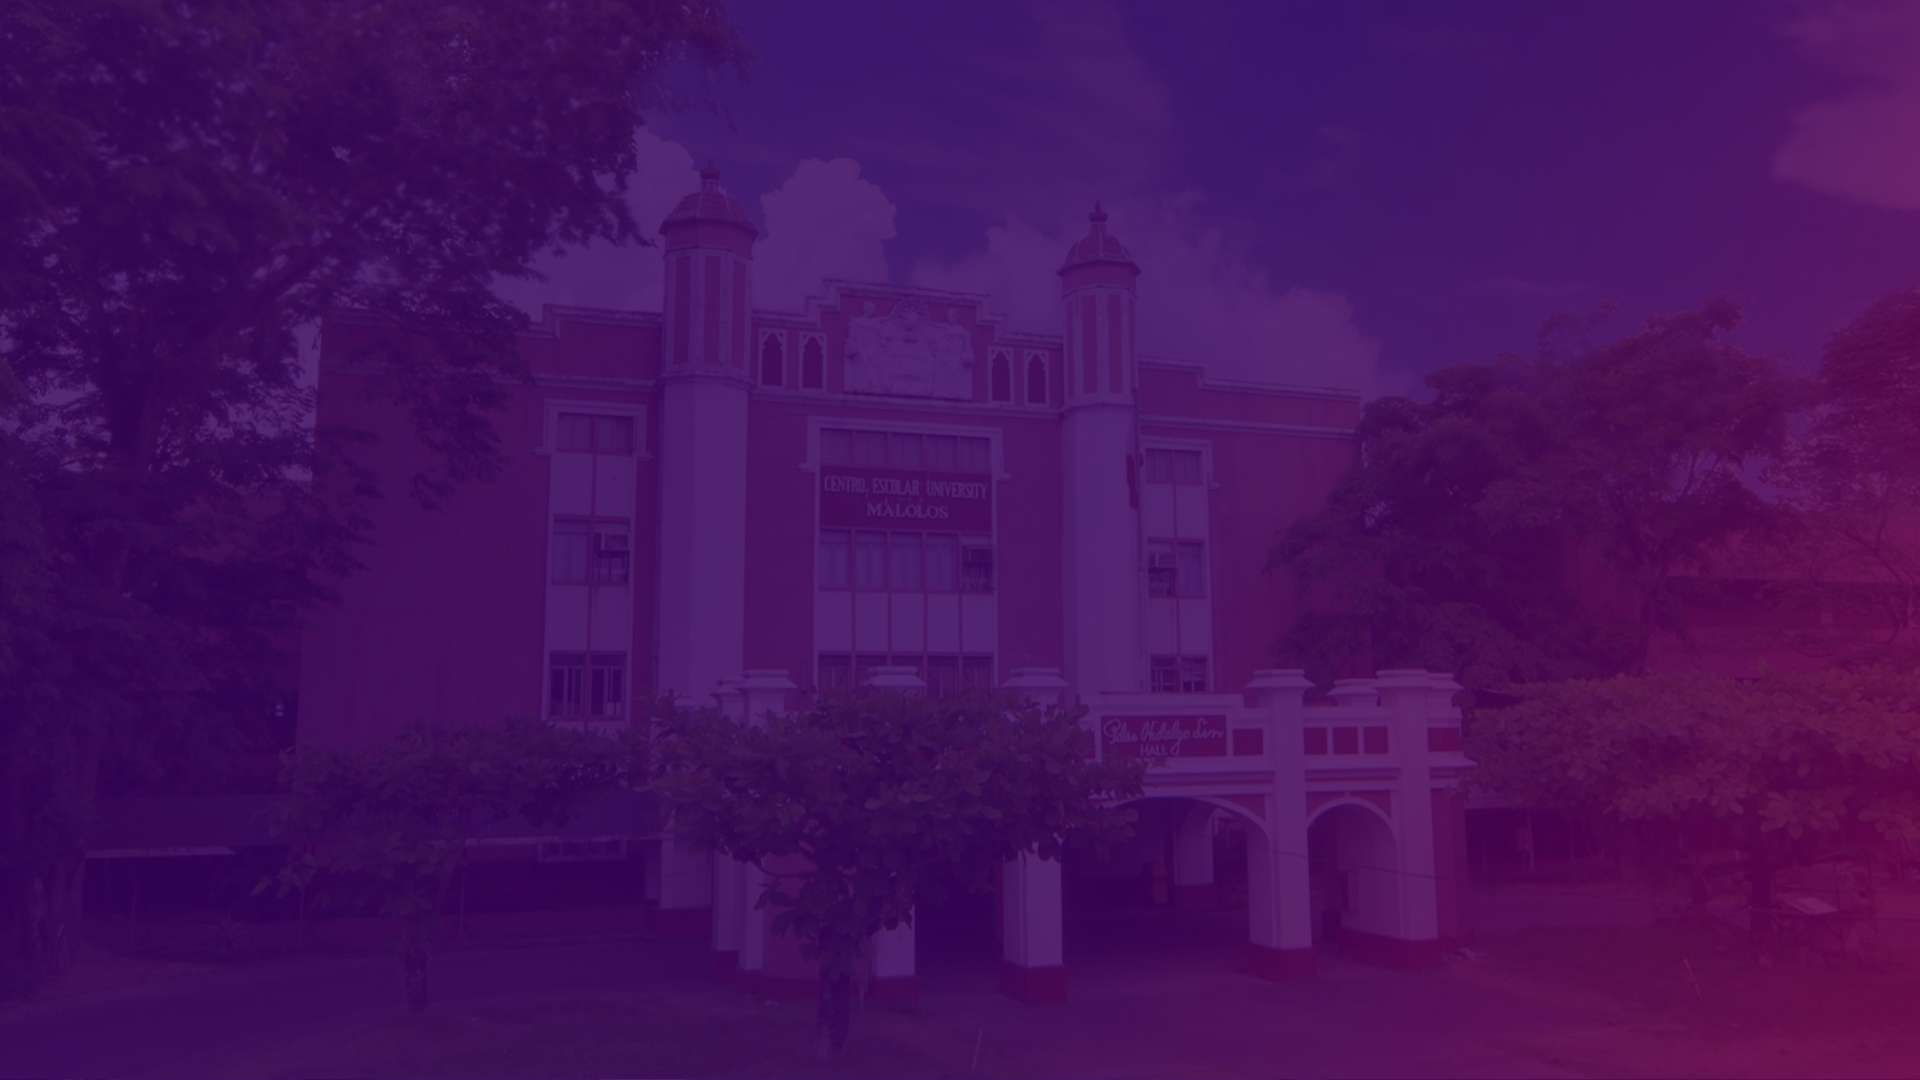
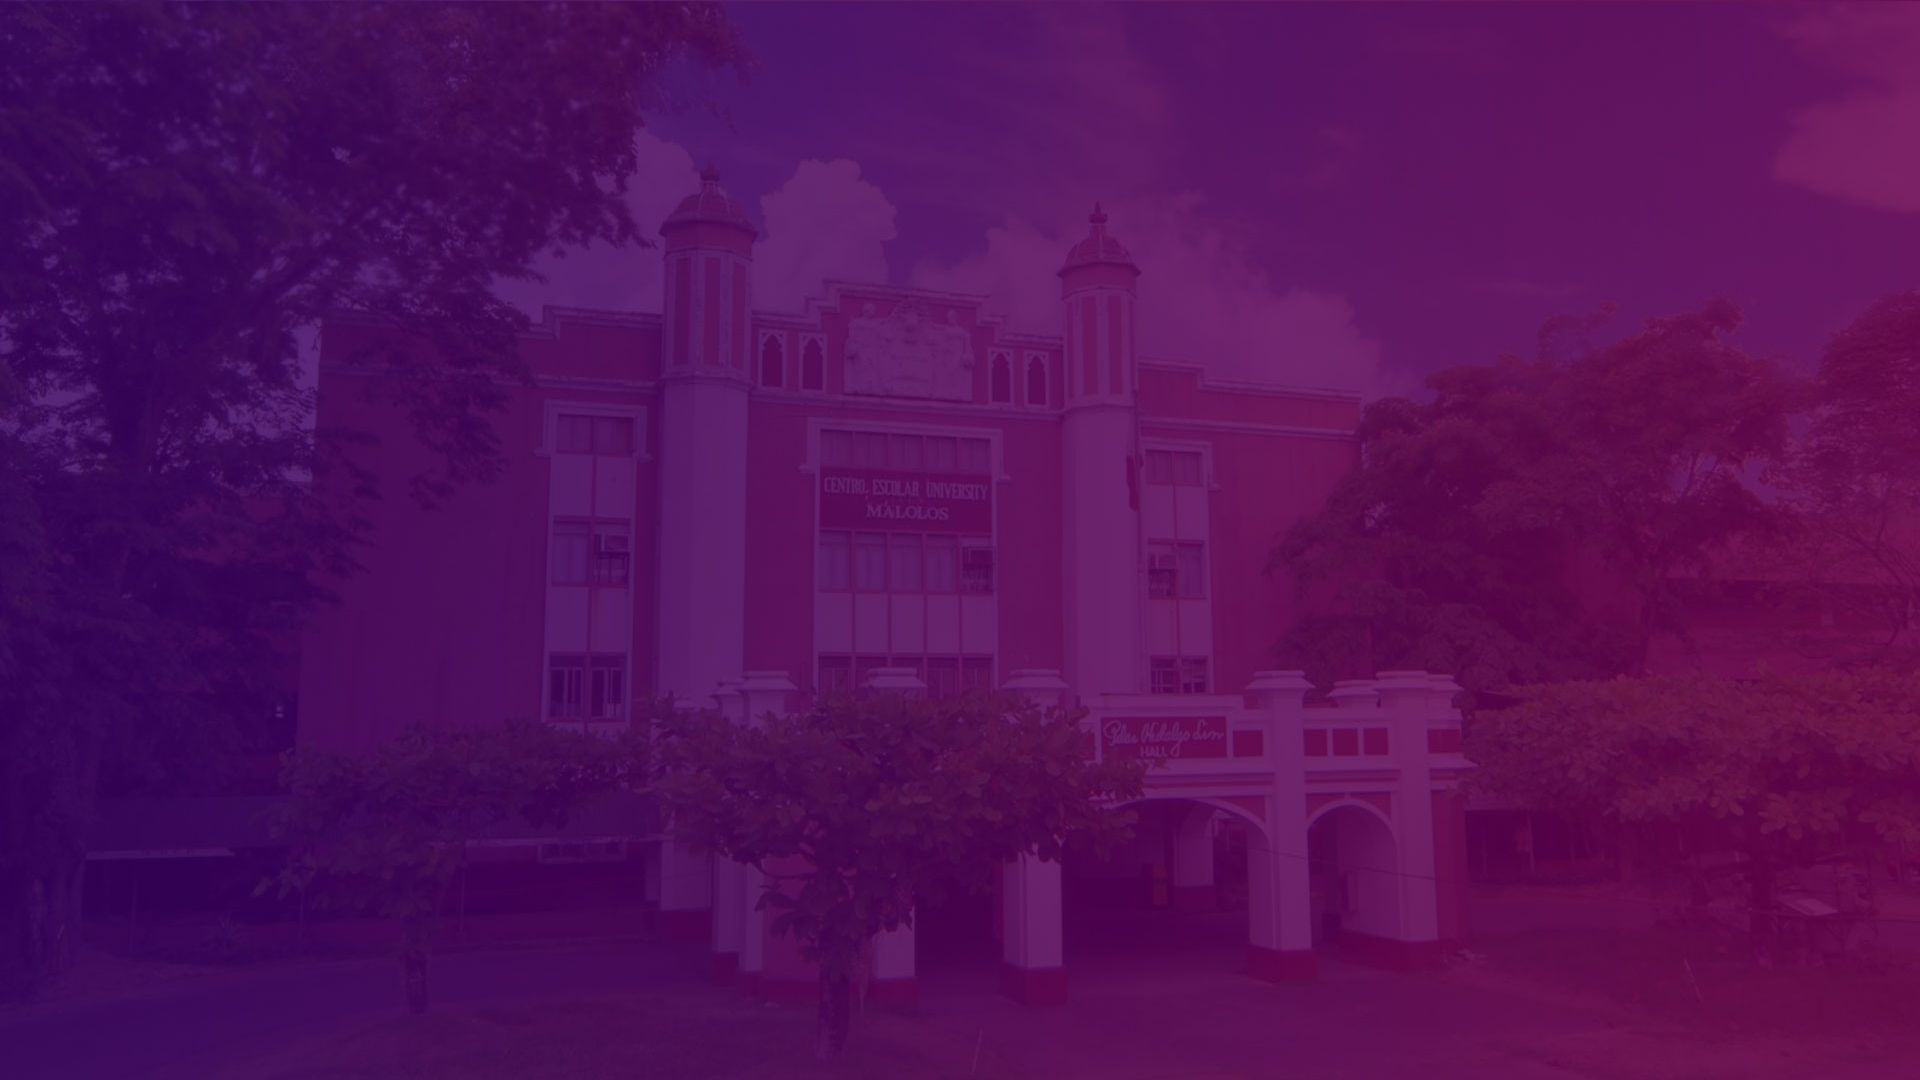
uploader

diff --git a/resource/css/homepage.css b/resource/css/homepage.css
@@ -82,17 +82,17 @@ html{
   width: auto;
   min-height: 100vh;
   padding-top: 30px;
-  background-image: url('../img/bg-ceu-gradient-1.png');
+  background-image: url('../img/bg-ceu-gradient-1.jpg');
   background-size: cover;
   background-position: center;
   background-attachment: fixed;
 }
 
-section.discount .row .daaplogo h2 {
-  color: white;
-  font-weight: 800;
-  font-size: 45px;
+section.discount .row .daapheader img {
+  width: 100%;
+  margin-top: 15px;
 }
+
 
 .cardcon{
   background-color: black;
@@ -134,7 +134,7 @@ section.discount .row .daaplogo h2 {
     width: auto;
     min-height: 93vh;
     padding-top: 30px;
-    background-image: url('../img/bg-ceu-gradient-2.png');
+    background-image: url('../img/bg-ceu-gradient-2.jpg');
     background-size: cover;
     background-position: center;
 }
@@ -143,7 +143,7 @@ section.discount .row .daaplogo h2 {
     width: auto;
     min-height: 100vh;
     padding-top: 30px;
-    background-image: url('../img/bg-ceu-gradient-3.png');
+    background-image: url('../img/bg-ceu-gradient-3.jpg');
     background-size: cover;
     background-position: center;
     background-attachment: fixed;
@@ -300,7 +300,18 @@ form .field input[type="submit"]{
   margin: 0 40px;
   color:#b3b3b3;
   }
-} 
+}
+
+@media only screen and (max-width: 300px){
+  .home .info p {
+    padding-top: 10px;
+    font-weight: 600;
+    line-height: 35px;
+    text-align: center;
+    font-size: 1.3em;
+    color:#b3b3b3;
+    }
+  }
 
 @media only screen and (min-width: 600px) {
   /* For tablets: */

diff --git a/resource/css/login.css b/resource/css/login.css
@@ -12,7 +12,7 @@ body{
   height: 100%;
   width: 100%;
   place-items: center;
-  background: url('../img/bg-ceu-gradient-1.png') no-repeat;
+  background: url('../img/bg-ceu-gradient-1.jpg') no-repeat;
 }
 ::selection{
   background: #fa4299;
@@ -50,7 +50,7 @@ body{
   font-size: 20px;
   font-weight: 700;
   border-radius: 50px;
-  cursor: pointer; 
+  cursor: pointer;
   transition: all 0.5s;
 }
 
@@ -90,7 +90,7 @@ body{
   background: -webkit-linear-gradient(left,#a445b2, #fa4299);
   padding: 30px;
   border-radius: 10px;
-  box-shadow: 0px 15px 20px rgba(0,0,0,0.1);
+  box-shadow: 0px 15px 20px rgba(0,0,0,0.5);
 }
 .wrapper .title-text{
   display: relative;

diff --git a/index.php b/index.php
@@ -14,7 +14,7 @@
     <link href="https://unpkg.com/aos@2.3.1/dist/aos.css" rel="stylesheet">
     <link href='https://fonts.googleapis.com/css?family=Nunito' rel='stylesheet'>
     <link rel="stylesheet" href="https://maxcdn.bootstrapcdn.com/font-awesome/4.7.0/css/font-awesome.min.css">
-    <link rel="stylesheet" href="resource/css/landing.css">
+    <link rel="stylesheet" href="resource/css/homepage.css">
     <script src="resource/js/scripts.js"></script>
     <script src="//cdn.jsdelivr.net/npm/sweetalert2@11"></script>
     <link rel="icon" href="resource/img/daap-icon.png">
@@ -27,7 +27,7 @@
           <img src="resource/img/DAAPlogo-white.png" alt="daap-logo">
             <div class="info">
                 <h2>Welcome, Escolarian!</h2>
-                <p>DAAP or Discount Application and Alumni Portal is a proposed system for Centro Escolar University wherein the students can apply for the student discount provided by the University called Entrance Grant Benefits. And the Alumni can also register and provide information so they can view the latest events of the University and the success of their co-Escolarians.</p>
+                <p>DAAP or Discount Application and Alumni Portal is a proposed system for Centro Escolar University wherein the students can apply for the student discount provided by the University called Entrance Grant Benefits. And a collaboration with the Candidate Verification Portal wherein the Alumni can register and provide information so they can view the latest events of the University and the success of their co-Escolarians.</p>
             </div>
           </div>
           <div class="scroll" data-aos="fade-up" data-aos-duration="2000">
@@ -38,9 +38,9 @@
 
     <section class="discount" id="gallery">
       <div class="container container-fluid">
-        <div class="row text-center">
-        <div class="daaplogo" data-aos="fade-down" data-aos-duration="2000">
-          <h2 class="mt-5">Discount Application and Alumni Portal</h2>
+        <div class="row text-center pt-lg-4">
+        <div class="daapheader" data-aos="fade-down" data-aos-duration="2000">
+          <img src="resource/img/DAAP-header.png" alt="daap-header">
         </div>
         <div class="container pt-md-5">
           <div class="row">
@@ -49,7 +49,7 @@
                 <img src="resource/img/lc-alumni.jpg" class="card-img-top"  alt="alumni"/>
                 <div class="card-body">
                 <p class="card-text text-justify">
-                  CEU provides different entrance grant scholarships that will help our Escolarians in reaching their goals in life. Here in Alumni Discount, an Alumni and their children will be granted a 5% discount on their tuition fee (maximum of 4 children) if their application will be approved by the Admin.
+                  CEU provides different entrance grant scholarships that will help our Escolarians in reaching their goals in life. Here in Alumni Discount, an Alumni can enroll their children to the University and they will be granted a 5% discount on their tuition fee (maximum of 4 children) if their application will be approved by the Admin.
                 </p>
                 <a href="#AlumniForm" class="btn-card">APPLY NOW</a>
               </div>
@@ -98,12 +98,12 @@
          </form>
       </div>
     </section> -->
-  <section class="map">
+    <section class="map">
 
-  </section>
-  <!--<section class="tracert">
+    </section>
+  <!-- <section class="tracert">
 
-  </section> -->
+  </section>-->
 
   <section class="regOverlay" id="AlumniForm">
     <div class="regWrapper">
@@ -305,7 +305,7 @@
                <small>Copyright &copy; Discount Application & Alumni Portal</small>
            </div>
            <div class="col text-right">
-               <small>Del Rosario, JK. | Cruz, RC. | Forbes, LI. | Heyrana, PK. | Bolasoc, R. (2022)</small>
+               <small>Del Rosario, JK. | Cruz, RC. | Heyrana, PK. | Forbes, LI. | Bolasoc, R. (2022)</small>
            </div>
        </div>
    </div>

diff --git a/uploaderAlumni.php b/uploaderAlumni.php
@@ -1,0 +1,55 @@
+<?php
+require_once $_SERVER['DOCUMENT_ROOT'].'/daap/resource/php/class/core/init.php';
+?>
+
+<!DOCTYPE html>
+<html lang="en" dir="ltr">
+<head>
+    <meta charset="utf-8">
+    <title>DAAP File Re-Uploader</title>
+
+    <meta name="viewport" content="width=device-width, initial-scale=1.0">
+    <link href="https://stackpath.bootstrapcdn.com/font-awesome/4.7.0/css/font-awesome.min.css" rel="stylesheet">
+    <link rel="icon" href="resource/img/daap-icon.png">
+
+    <!-- Iconscout CSS -->
+    <link rel="stylesheet" href="https://unicons.iconscout.com/release/v4.0.0/css/line.css">
+
+    <!-- Bootstrap CSS -->
+    <link rel="stylesheet" href="https://stackpath.bootstrapcdn.com/bootstrap/4.3.1/css/bootstrap.min.css" integrity="sha384-ggOyR0iXCbMQv3Xipma34MD+dH/1fQ784/j6cY/iJTQUOhcWr7x9JvoRxT2MZw1T" crossorigin="anonymous">
+
+    <link rel="stylesheet" href="resource/css/uploader.css">
+</head>
+<body>
+    <nav class="navbar navbar-expand-md navbar-dark">
+        <a href="index.php"><img src="resource/img/DAAPlogo-white.png" class="img-fluid logo" alt="daap-logo"></a>
+    </nav>
+    <div class="wrapper">
+    <div class="title">
+        Discount Application and Alumni Portal <br> File Re-Uploader (Alumni)
+    </div>
+    <form action="" method="post">
+    <div class="row justify-content-center text-center">
+                <h6 class="Reminder pt-5">*Please upload atleast one document (image file).</h6>
+              <div class="col-md-8 pt-3">
+                <label for="alumniYB" class="form-label">Alumni's Yearbook</label>
+                   <input type="file" class="form-control text-center" aria-label="file example" name="alumniYB" id="alumniYB" accept="image/*" autocomplete="no">
+              </div>
+            </div>
+            <div class="row justify-content-center text-center">
+              <div class="col-md-8 pt-3">
+                <label for="alumniDiploma" class="form-label">Alumni's Diploma</label>
+                   <input type="file" class="form-control text-center" aria-label="file example" name="alumniDiploma" id="alumniDiploma" accept="image/*" autocomplete="no">
+              </div>
+            </div>
+            <div class="row justify-content-center text-center">
+              <div class="col-md-8 pt-3">
+                <label for="alumniTOR" class="form-label">Alumni's TOR</label>
+                   <input type="file" class="form-control text-center" aria-label="file example" name="alumniTOR" id="alumniTOR" accept="image/*" autocomplete="no">
+              </div>
+            </div>
+            <div class="col-12 text-center mt-4">
+              <input class="btn btn-secondary btn-lg btn-block" type="submit" name="applyAlumni" id="applyAlumni" value="Re-Upload Document">
+            </div>
+    </form>
+    </div>

diff --git a/uploaderSibling.php b/uploaderSibling.php
@@ -1,0 +1,49 @@
+<?php
+require_once $_SERVER['DOCUMENT_ROOT'].'/daap/resource/php/class/core/init.php';
+?>
+
+<!DOCTYPE html>
+<html lang="en" dir="ltr">
+<head>
+    <meta charset="utf-8">
+    <title>DAAP File Re-Uploader</title>
+
+    <meta name="viewport" content="width=device-width, initial-scale=1.0">
+    <link href="https://stackpath.bootstrapcdn.com/font-awesome/4.7.0/css/font-awesome.min.css" rel="stylesheet">
+    <link rel="icon" href="resource/img/daap-icon.png">
+
+    <!-- Iconscout CSS -->
+    <link rel="stylesheet" href="https://unicons.iconscout.com/release/v4.0.0/css/line.css">
+
+    <!-- Bootstrap CSS -->
+    <link rel="stylesheet" href="https://stackpath.bootstrapcdn.com/bootstrap/4.3.1/css/bootstrap.min.css" integrity="sha384-ggOyR0iXCbMQv3Xipma34MD+dH/1fQ784/j6cY/iJTQUOhcWr7x9JvoRxT2MZw1T" crossorigin="anonymous">
+
+    <link rel="stylesheet" href="resource/css/uploader.css">
+</head>
+<body>
+    <nav class="navbar navbar-expand-md navbar-dark">
+        <a href="index.php"><img src="resource/img/DAAPlogo-white.png" class="img-fluid logo" alt="daap-logo"></a>
+    </nav>
+    <div class="wrapper">
+    <div class="title">
+        Discount Application and Alumni Portal <br> File Re-Uploader (Sibling)
+    </div>
+    <form action="" method="post">
+      <div class="row justify-content-center text-center">
+        <div class="col-md-8 pt-3">
+          <label for="applicantCOM" class="form-label">Applicant's COM</label>
+             <input type="file" class="form-control text-center" aria-label="file example" name="applicantCOM" id="applicantCOM" accept="image/*" autocomplete="no">
+        </div>
+      </div>
+      <div class="row justify-content-center text-center">
+        <div class="col-md-8 pt-3">
+          <label for="siblingCOM" class="form-label">Sibling's COM</label>
+             <input type="file" class="form-control text-center" aria-label="file example" name="siblingCOM" id="siblingCOM" accept="image/*" autocomplete="no">
+        </div>
+      </div>
+      <p class="text-center">*Kindly convert your COM into an image file.</p>
+      <div class="col-12 text-center mt-4">
+        <input class="btn btn-secondary btn-lg btn-block" type="submit" name="applySibling" id="applySibling" value="Re-Upload Document"></input>
+      </div>
+    </form>
+    </div>

diff --git a/status.php b/status.php
@@ -5,26 +5,26 @@ require_once $_SERVER['DOCUMENT_ROOT'].'/daap/resource/php/class/core/init.php';
 <!DOCTYPE html>
 <html lang="en" dir="ltr">
 <head>
-    <meta charset="utf-8">
-    <title>DAAP Status Checker</title>
+      <meta charset="utf-8">
+      <title>DAAP Status Checker</title>
 
-    <meta name="viewport" content="width=device-width, initial-scale=1.0">
-    <link href="https://stackpath.bootstrapcdn.com/font-awesome/4.7.0/css/font-awesome.min.css" rel="stylesheet">
-    <link rel="icon" href="resource/img/daap-icon.png">
+      <meta name="viewport" content="width=device-width, initial-scale=1.0">
+      <link href="https://stackpath.bootstrapcdn.com/font-awesome/4.7.0/css/font-awesome.min.css" rel="stylesheet">
+      <link rel="icon" href="resource/img/daap-icon.png">
 
-    <!-- Iconscout CSS -->
-    <link rel="stylesheet" href="https://unicons.iconscout.com/release/v4.0.0/css/line.css">
+      <!-- Iconscout CSS -->
+      <link rel="stylesheet" href="https://unicons.iconscout.com/release/v4.0.0/css/line.css">
 
-    <!-- Bootstrap CSS -->
-    <link rel="stylesheet" href="https://stackpath.bootstrapcdn.com/bootstrap/4.3.1/css/bootstrap.min.css" integrity="sha384-ggOyR0iXCbMQv3Xipma34MD+dH/1fQ784/j6cY/iJTQUOhcWr7x9JvoRxT2MZw1T" crossorigin="anonymous">
-    <link rel="stylesheet" href="resource/css/status.css">
+      <!-- Bootstrap CSS -->
+      <link rel="stylesheet" href="https://stackpath.bootstrapcdn.com/bootstrap/4.3.1/css/bootstrap.min.css" integrity="sha384-ggOyR0iXCbMQv3Xipma34MD+dH/1fQ784/j6cY/iJTQUOhcWr7x9JvoRxT2MZw1T" crossorigin="anonymous">
+      <link rel="stylesheet" href="resource/css/status.css">
 </head>
 <body>
-    <nav class="navbar navbar-expand-md navbar-dark">
-      <img src="resource/img/DAAPlogo-white.png" class="img-fluid logo" alt="daap-logo">
-    </nav>
+      <nav class="navbar navbar-expand-md navbar-dark">
+         <a href="index.php"><img src="resource/img/DAAPlogo-white.png" class="img-fluid logo" alt="daap-logo"></a>
+      </nav>
 
-    <div class="wrapper">
+      <div class="wrapper">
          <?php
          if (!empty($_POST)){
             require 'statusresult.php';

diff --git a/uploaderCeis.php b/uploaderCeis.php
@@ -1,0 +1,42 @@
+<?php
+require_once $_SERVER['DOCUMENT_ROOT'].'/daap/resource/php/class/core/init.php';
+?>
+
+<!DOCTYPE html>
+<html lang="en" dir="ltr">
+<head>
+    <meta charset="utf-8">
+    <title>DAAP File Re-Uploader</title>
+
+    <meta name="viewport" content="width=device-width, initial-scale=1.0">
+    <link href="https://stackpath.bootstrapcdn.com/font-awesome/4.7.0/css/font-awesome.min.css" rel="stylesheet">
+    <link rel="icon" href="resource/img/daap-icon.png">
+
+    <!-- Iconscout CSS -->
+    <link rel="stylesheet" href="https://unicons.iconscout.com/release/v4.0.0/css/line.css">
+
+    <!-- Bootstrap CSS -->
+    <link rel="stylesheet" href="https://stackpath.bootstrapcdn.com/bootstrap/4.3.1/css/bootstrap.min.css" integrity="sha384-ggOyR0iXCbMQv3Xipma34MD+dH/1fQ784/j6cY/iJTQUOhcWr7x9JvoRxT2MZw1T" crossorigin="anonymous">
+
+    <link rel="stylesheet" href="resource/css/uploader.css">
+</head>
+<body>
+    <nav class="navbar navbar-expand-md navbar-dark">
+        <a href="index.php"><img src="resource/img/DAAPlogo-white.png" class="img-fluid logo" alt="daap-logo"></a>
+    </nav>
+    <div class="wrapper">
+    <div class="title">
+        Discount Application and Alumni Portal <br> File Re-Uploader (CEIS)
+    </div>
+    <form action="" method="post">
+      <div class="row justify-content-center text-center">
+        <div class="col-md-8 pt-3">
+          <label for="ceisDiploma" class="form-label">CEIS Diploma (Image Upload)</label>
+             <input type="file" class="form-control text-center" aria-label="file example" name="ceisDiploma" id="ceisDiploma" accept="image/*" autocomplete="no">
+        </div>
+      </div>
+      <div class="col-12 text-center mt-4">
+        <input class="btn btn-secondary btn-lg btn-block" type="submit" name="applyCEIS" value="Re-Upload Document">
+      </div>
+    </form>
+    </div>

diff --git a/uploader.php b/uploader.php
@@ -1,0 +1,44 @@
+<?php
+require_once $_SERVER['DOCUMENT_ROOT'].'/daap/resource/php/class/core/init.php';
+?>
+
+<!DOCTYPE html>
+<html lang="en" dir="ltr">
+<head>
+    <meta charset="utf-8">
+    <title>DAAP File Re-Uploader</title>
+
+    <meta name="viewport" content="width=device-width, initial-scale=1.0">
+    <link href="https://stackpath.bootstrapcdn.com/font-awesome/4.7.0/css/font-awesome.min.css" rel="stylesheet">
+    <link rel="icon" href="resource/img/daap-icon.png">
+
+    <!-- Iconscout CSS -->
+    <link rel="stylesheet" href="https://unicons.iconscout.com/release/v4.0.0/css/line.css">
+
+    <!-- Bootstrap CSS -->
+    <link rel="stylesheet" href="https://stackpath.bootstrapcdn.com/bootstrap/4.3.1/css/bootstrap.min.css" integrity="sha384-ggOyR0iXCbMQv3Xipma34MD+dH/1fQ784/j6cY/iJTQUOhcWr7x9JvoRxT2MZw1T" crossorigin="anonymous">
+
+    <link rel="stylesheet" href="resource/css/uploader.css">
+</head>
+<body>
+    <nav class="navbar navbar-expand-md navbar-dark">
+        <a href="index.php"><img src="resource/img/DAAPlogo-white.png" class="img-fluid logo" alt="daap-logo"></a>
+    </nav>
+    <div class="wrapper">
+    <div class="title">
+        Discount Application and Alumni Portal <br> File Re-Uploader
+    </div>
+    <form action="" method="post">
+        <div class="field">
+            <h5>Please enter your transaction ID below</h5>
+                <input type="text" name="transactionID" placeholder="Your Transaction ID" required>
+        </div>
+        <div class="field">
+        <input type="submit" value="Upload New File/s">
+        </div>
+    </form>
+    </div>
+
+    
+</body>
+</html>

diff --git a/statusform.php b/statusform.php
@@ -1,4 +1,4 @@
-<div class="title">
+         <div class="title">
             Discount Application and Alumni Portal <br> Status Checker
          </div>
          <form action="" method="post">
